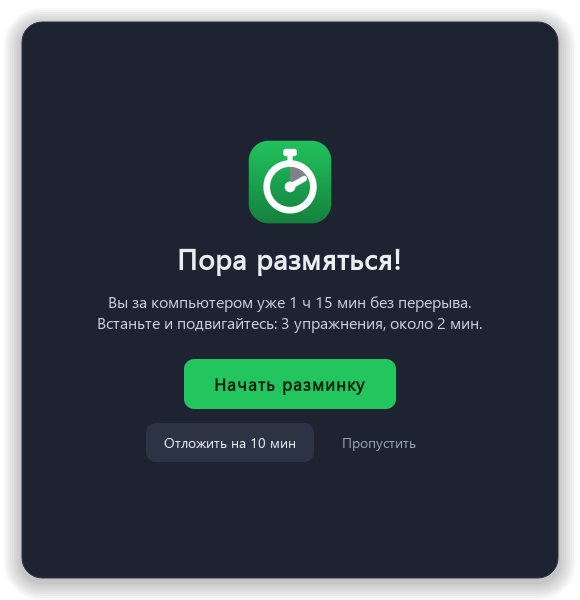
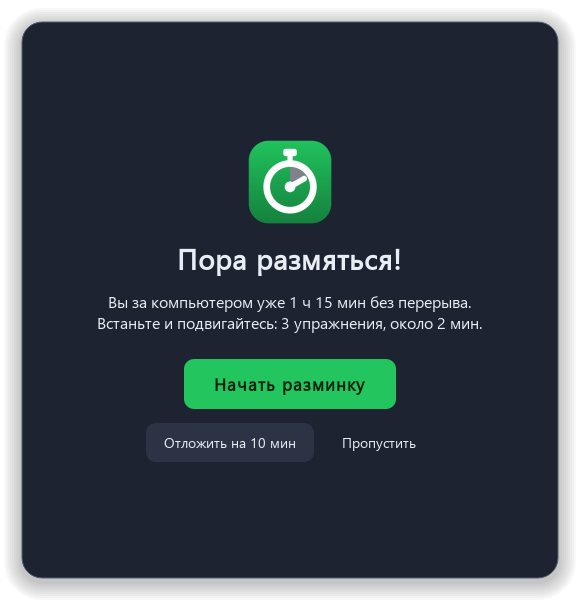
Website for Razminka 1.2.9

Changed region(s): [[0.5897, 0.72, 0.7138, 0.75]]

diff --git a/docs/index.html b/docs/index.html
@@ -1,10 +1,10 @@
-<!doctype html>
+<!doctype html>
 <html lang="ru">
 <head>
 <meta charset="utf-8"><meta name="viewport" content="width=device-width,initial-scale=1">
 <meta name="description" content="Разминка напоминает отойти от компьютера. Выбирайте упражнения, создавайте свои тренировки и смотрите результаты. Бесплатно для Windows.">
-<meta name="theme-color" content="#eef4f2"><title>Разминка — сделайте небольшой перерыв</title>
-<link rel="icon" href="assets/icon.png"><link rel="stylesheet" href="style.css"><script src="app.js" defer></script>
+<meta name="theme-color" content="#171d27"><title>Разминка — сделайте небольшой перерыв</title>
+<link rel="icon" href="assets/icon.png"><link rel="stylesheet" href="style.css?v=1.2.9"><script src="app.js" defer></script>
 </head>
 <body>
 <a class="skip" href="#main">Перейти к содержимому</a>
@@ -14,11 +14,11 @@
 <div class="intro"><p class="availability">Для тех, кто работает за компьютером</p><h1>Работа подождёт<br>пару минут.</h1><p class="lead">Иногда увлечёшься — и полдня пролетело сидя. Разминка напомнит встать из-за стола и поможет сделать несколько упражнений.</p><a class="button primary" href="#download">Скачать для Windows</a><p class="quiet">Бесплатно, без регистрации. Есть версия без установки.</p></div>
 <figure class="hero-shot"><img src="assets/reminder.png" width="580" height="600" alt="Окно Разминки предлагает начать упражнения, отложить напоминание или пропустить его"><figcaption>Не время? Отложите напоминание и закончите свои дела.</figcaption></figure>
 </section>
-<section class="routine wrap"><h2>Небольшой перерыв<br>в обычном рабочем дне.</h2><div class="routine-copy"><p>Программа живёт в трее, рядом с часами. Задайте, как часто напоминать о разминке и в какие часы вас можно беспокоить.</p><p>Если вы уже отошли от компьютера, отсчёт начнётся заново. Напоминания можно поставить на паузу, а тренировку — запустить в любой момент.</p></div></section>
+<section class="routine wrap"><h2>Небольшой перерыв<br>в обычном рабочем дне.</h2><div class="routine-copy"><p>Программа живёт в трее, рядом с часами. Задайте, как часто напоминать о разминке и в какие часы вас можно беспокоить.</p><p>Если вы уже отошли от компьютера, отсчёт начнётся заново. В меню «Пауза» можно приостановить напоминания на 15 или 30 минут, на 1, 2 или 4 часа. Возобновить их и запустить тренировку можно в любой момент.</p></div></section>
 <section id="workouts" class="workouts"><div class="wrap split"><div class="section-copy"><h2>Ваши упражнения.<br>Ваш темп.</h2><p>Выберите короткую разминку или отжимания с приседаниями: по 10 раз, затем по 15. Программа запомнит выбранную тренировку.</p><p>Упражнения на время идут по таймеру. В подходах на повторения вы сами нажимаете «Готово». Сделали меньше или больше — поправьте количество перед завершением.</p><div class="sequence" aria-label="Порядок упражнений"><span>10 отжиманий</span><span>10 приседаний</span><span>15 отжиманий</span><span>15 приседаний</span></div></div><figure><button class="screenshot" aria-label="Увеличить экран упражнения на повторения"><img src="assets/repetitions.png" width="580" height="600" loading="lazy" alt="Отжимания: план 10 повторений, поле выполненного количества и кнопка Готово"></button><figcaption>Можно сделать паузу или пропустить упражнение.</figcaption></figure></div></section>
-<section class="editor wrap"><div class="section-heading"><h2>Соберите свою тренировку.</h2><p>Откройте настройки и нажмите «Новая тренировка». Добавьте упражнения, укажите время или повторения, расставьте их в удобном порядке. Подсказки и отдых между упражнениями тоже настраиваются.</p></div><figure class="wide-shot"><button class="screenshot" aria-label="Увеличить редактор тренировок"><img src="assets/editor.png" width="820" height="500" loading="lazy" alt="Редактор: названия упражнений, подсказки, выбор времени или повторений, кнопки добавления и перестановки"></button><figcaption>Всё редактируется в приложении. Разбираться в файлах не нужно.</figcaption></figure></section>
+<section class="editor wrap"><div class="section-heading"><h2>Соберите свою тренировку.</h2><p>Откройте настройки и нажмите «Новая тренировка». Добавьте упражнения, укажите время или повторения, расставьте их в удобном порядке. Название тренировки, подсказки и отдых между упражнениями тоже можно изменить.</p></div><figure class="wide-shot"><button class="screenshot" aria-label="Увеличить редактор тренировок"><img src="assets/editor.png" width="820" height="500" loading="lazy" alt="Редактор: названия упражнений, подсказки, выбор времени или повторений, кнопки добавления и перестановки"></button><figcaption>Всё редактируется в приложении. Разбираться в файлах не нужно.</figcaption></figure></section>
 <section id="history" class="history"><div class="wrap"><div class="section-heading"><h2>Посмотрите,<br>что получилось.</h2><p>В истории остаются тренировки и упражнения: что выполнили, что пропустили, сколько повторений подтвердили и сколько времени занимались. Подготовка и паузы учитываются отдельно.</p></div><figure class="wide-shot"><button class="screenshot" aria-label="Увеличить историю тренировок"><img src="assets/history.png" width="1000" height="650" loading="lazy" alt="История с датами тренировок и подробностями каждого упражнения"></button><figcaption>Пример истории. Ваши записи хранятся только на вашем компьютере.</figcaption></figure><p class="history-note">История собирается с версии 1.2.8. Программа не измеряет движения: количество повторений вы подтверждаете сами.</p></div></section>
-<section class="settings wrap"><figure><button class="screenshot" aria-label="Увеличить настройки"><img src="assets/settings.png" width="600" height="650" loading="lazy" alt="Настройки: выбор и редактор тренировок, история, расписание и обновления"></button></figure><div class="section-copy"><h2>Настройте один раз.</h2><ul class="plain-list"><li><strong>Удобное расписание.</strong> Выберите интервал и часы напоминаний.</li><li><strong>Без лишнего звука.</strong> Отключите сигналы, если они мешают.</li><li><strong>Автозапуск по желанию.</strong> Разминка может запускаться вместе с Windows.</li><li><strong>Обновления внутри приложения.</strong> Новая версия загрузится автоматически, а установить её можно в удобный момент.</li></ul></div></section>
+<section class="settings wrap"><figure><button class="screenshot" aria-label="Увеличить настройки"><img src="assets/settings.png" width="600" height="650" loading="lazy" alt="Настройки: выбор и редактор тренировок, история, расписание и обновления"></button></figure><div class="section-copy"><h2>Настройте один раз.</h2><ul class="plain-list"><li><strong>Светлая или тёмная тема.</strong> Выберите оформление по вкусу или оставьте «Как в Windows». На скриншотах — тёмная тема приложения.</li><li><strong>Удобное расписание.</strong> Выберите интервал и часы напоминаний.</li><li><strong>Без лишнего звука.</strong> Отключите сигналы, если они мешают.</li><li><strong>Автозапуск по желанию.</strong> Разминка может запускаться вместе с Windows.</li><li><strong>Обновления внутри приложения.</strong> Новая версия загрузится автоматически, а установить её можно в удобный момент.</li></ul></div></section>
 <section id="download" class="download"><div class="wrap"><h2>Попробуйте в следующий<br>рабочий день.</h2><p>Windows 10 или 11, 64 бита. Дополнительно устанавливать библиотеки не нужно.</p><div class="downloads"><article><h3>Обычная установка</h3><p>Запустите установщик. Разминка появится в меню «Пуск». Права администратора не нужны.</p><a id="setup-link" class="button primary" href="https://github.com/neonvalve/razminka/releases/latest">Скачать установщик</a></article><article><h3>Без установки</h3><p>Распакуйте всю папку из архива и откройте Razminka.exe. Настройки и история останутся рядом с программой.</p><a id="portable-link" class="button" href="https://github.com/neonvalve/razminka/releases/latest">Скачать ZIP</a></article></div><p class="release-info"><span id="version">Последняя версия доступна на GitHub.</span> <a href="https://github.com/neonvalve/razminka/releases">Что изменилось в выпусках</a></p></div></section>
 <section class="faq wrap"><h2>Если остались вопросы</h2><details><summary>Где искать программу после запуска?</summary><p>Рядом с часами Windows. Если значка не видно, откройте скрытые значки стрелкой. Нажмите на значок Разминки — появится меню с запуском тренировки, настройками и историей.</p></details><details><summary>Как выбрать тренировку для всех следующих напоминаний?</summary><p>В меню трея откройте «Тренировка» и выберите нужную — изменение применяется сразу. Или выберите её в настройках и нажмите «Сохранить». Уже начатая тренировка останется прежней.</p></details><details><summary>Что будет с моими тренировками после обновления?</summary><p>Обновление сохраняет ваши упражнения, настройки и историю. Новая версия устанавливается после подтверждения и перезапускает приложение. Проверить обновления вручную можно в трее или в окне «О программе».</p></details><details><summary>Нужен ли интернет?</summary><p>Для тренировок и просмотра истории — нет. Интернет нужен для проверки и загрузки обновлений. Данные тренировок никуда не отправляются.</p></details><details><summary>Можно пользоваться бесплатно?</summary><p>Да, все функции доступны бесплатно. Подписки и регистрации нет. Поддержать автора можно по желанию.</p></details></section>
 <section class="coffee wrap"><div><h2>Разминка пригодилась?</h2><p>Меня зовут Антон Тепляков. Если хотите сказать спасибо и поддержать дальнейшую разработку — можно угостить меня кофе.</p><a href="https://t.me/ElementJS">Написать автору в Telegram</a></div><a class="button" href="https://pay.cloudtips.ru/p/019480d0" target="_blank" rel="noopener noreferrer">Угостить кофе</a></section>

diff --git a/docs/style.css b/docs/style.css
@@ -1,5 +1,5 @@
-:root{--ink:#203c38;--muted:#536e68;--green:#216954;--paper:#fff;--wash:#eef4f2;--line:#cbdad5;font:17px/1.65 "Segoe UI",Arial,sans-serif;color:var(--ink);background:var(--paper)}
-*{box-sizing:border-box}body{margin:0}html{scroll-behavior:smooth;scroll-padding-top:32px}a{color:var(--green);text-underline-offset:4px}button{font:inherit}a:focus-visible,button:focus-visible,summary:focus-visible{outline:3px solid #a95826;outline-offset:5px}.wrap{width:min(1140px,calc(100% - 64px));margin:auto}header{display:flex;align-items:center;justify-content:space-between;gap:24px;padding:26px 0}.brand{display:inline-flex;align-items:center;gap:12px;color:var(--ink);font-weight:700;font-size:24px;text-decoration:none}nav{display:flex;gap:30px}nav a{font-size:15px;text-decoration:none}h1,h2,h3,p,figure{margin:0}h1,h2{font-family:"Trebuchet MS","Segoe UI",sans-serif;letter-spacing:-.045em;line-height:1.1;font-weight:700}h1{font-size:clamp(44px,5.5vw,74px)}h2{font-size:clamp(32px,3.7vw,49px)}h3{font-size:24px;line-height:1.3}p{max-width:62ch}.hero{display:grid;grid-template-columns:1.12fr 1fr;align-items:center;gap:36px;padding:40px 0 75px}.availability{color:var(--muted);margin-bottom:22px;font-size:15px}.lead{font-size:21px;line-height:1.65;margin:26px 0 30px}.quiet{font-size:14px;color:var(--muted);margin-top:15px}.button{display:inline-flex;align-items:center;justify-content:center;border:1px solid var(--green);border-radius:8px;padding:14px 22px;font-size:16px;font-weight:650;text-align:center;text-decoration:none;min-height:50px}.button:hover{background:#e0ece6}.primary{background:var(--green);color:white}.primary:hover{background:#174d3d}.hero-shot{background:var(--wash);border-radius:130px 130px 24px 24px;padding:12px 8px 20px}.hero-shot img{width:100%;height:auto;display:block}figcaption{font-size:14px;color:var(--muted);text-align:center;padding:12px 18px 0}.routine{display:grid;grid-template-columns:1fr 1fr;gap:80px;padding:66px 0 90px;border-top:1px solid var(--line)}.routine-copy p+p,.section-copy p+p{margin-top:18px}.section-copy h2{margin-bottom:26px}.split{display:grid;grid-template-columns:1fr .9fr;gap:80px;align-items:center}.workouts{background:var(--wash);padding:65px 0}.screenshot{padding:0;border:0;background:transparent;display:block;width:100%;cursor:zoom-in}.screenshot img{display:block;width:100%;height:auto;max-width:100%;object-fit:contain}.sequence{display:grid;grid-template-columns:1fr 1fr;gap:0 20px;margin-top:30px;font-weight:600}.sequence span{padding:12px 0;border-top:1px solid #bdcec7}.editor{padding:100px 0}.section-heading{display:grid;grid-template-columns:1fr 1fr;gap:60px;align-items:start;margin-bottom:40px}.wide-shot{max-width:1000px;margin:auto}.wide-shot .screenshot{background:white;border-radius:10px;overflow:hidden;border:1px solid var(--line);box-shadow:0 16px 40px #203c3812}.history{padding:85px 0;background:#edf2f8}.history-note{font-size:14px;color:var(--muted);margin:24px auto 0;text-align:center}.settings{display:grid;grid-template-columns:1fr 1fr;gap:90px;align-items:center;padding:100px 0}.settings figure{max-width:540px}.settings img{border:1px solid var(--line);border-radius:8px}.plain-list{list-style:none;margin:0;padding:0}.plain-list li{padding:18px 0;border-bottom:1px solid var(--line)}.plain-list strong{display:block}.download{background:var(--wash);padding:80px 0}.download h2{margin-bottom:22px}.downloads{display:grid;grid-template-columns:1fr 1fr;gap:75px;margin:40px 0 32px}.downloads article{padding-top:25px;border-top:1px solid #b9cdc3}.downloads p{margin:14px 0 24px;max-width:46ch}.release-info{font-size:14px;color:var(--muted)}.release-info a{margin-left:10px}.faq{padding:90px 0}.faq h2{margin-bottom:30px}.faq details{border-bottom:1px solid var(--line);padding:20px 0}.faq summary{font-size:20px;cursor:pointer;font-weight:600}.faq details p{margin-top:16px;max-width:80ch}.coffee{display:grid;grid-template-columns:1fr auto;gap:55px;align-items:center;border-top:1px solid var(--line);padding:55px 0 70px}.coffee h2{font-size:36px;margin-bottom:20px}.coffee p{margin-bottom:16px;max-width:57ch}footer{display:flex;align-items:center;flex-wrap:wrap;gap:30px;padding:25px 0 40px!important;border-top:1px solid var(--line);font-size:14px}footer .brand{margin-right:auto}.skip{position:absolute;top:-100px;left:10px;background:white;padding:12px;z-index:10}.skip:focus{top:10px}dialog{border:0;border-radius:12px;padding:16px;max-width:95vw;max-height:95vh;background:#f4f7f6}dialog::backdrop{background:#102923db}dialog img{display:block;max-width:88vw;max-height:80vh;object-fit:contain;margin:auto}dialog button{display:block;margin:0 0 12px auto;padding:8px 18px;background:white;border:1px solid var(--green);border-radius:5px;cursor:pointer;color:var(--ink)}
+:root{--ink:#e9edf4;--muted:#b4bfd0;--green:#70dda0;--paper:#171d27;--wash:#202937;--line:#3a485e;font:17px/1.65 "Segoe UI",Arial,sans-serif;color:var(--ink);background:var(--paper)}
+*{box-sizing:border-box}body{margin:0}html{scroll-behavior:smooth;scroll-padding-top:32px}a{color:var(--green);text-underline-offset:4px}button{font:inherit}a:focus-visible,button:focus-visible,summary:focus-visible{outline:3px solid #a95826;outline-offset:5px}.wrap{width:min(1140px,calc(100% - 64px));margin:auto}header{display:flex;align-items:center;justify-content:space-between;gap:24px;padding:26px 0}.brand{display:inline-flex;align-items:center;gap:12px;color:var(--ink);font-weight:700;font-size:24px;text-decoration:none}nav{display:flex;gap:30px}nav a{font-size:15px;text-decoration:none}h1,h2,h3,p,figure{margin:0}h1,h2{font-family:"Trebuchet MS","Segoe UI",sans-serif;letter-spacing:-.045em;line-height:1.1;font-weight:700}h1{font-size:clamp(44px,5.5vw,74px)}h2{font-size:clamp(32px,3.7vw,49px)}h3{font-size:24px;line-height:1.3}p{max-width:62ch}.hero{display:grid;grid-template-columns:1.12fr 1fr;align-items:center;gap:36px;padding:40px 0 75px}.availability{color:var(--muted);margin-bottom:22px;font-size:15px}.lead{font-size:21px;line-height:1.65;margin:26px 0 30px}.quiet{font-size:14px;color:var(--muted);margin-top:15px}.button{display:inline-flex;align-items:center;justify-content:center;border:1px solid var(--green);border-radius:8px;padding:14px 22px;font-size:16px;font-weight:650;text-align:center;text-decoration:none;min-height:50px}.button:hover{background:#2b394a}.primary{background:#22c55e;color:#06220f}.primary:hover{background:#37d67a}.hero-shot{background:var(--wash);border-radius:130px 130px 24px 24px;padding:12px 8px 20px}.hero-shot img{width:100%;height:auto;display:block}figcaption{font-size:14px;color:var(--muted);text-align:center;padding:12px 18px 0}.routine{display:grid;grid-template-columns:1fr 1fr;gap:80px;padding:66px 0 90px;border-top:1px solid var(--line)}.routine-copy p+p,.section-copy p+p{margin-top:18px}.section-copy h2{margin-bottom:26px}.split{display:grid;grid-template-columns:1fr .9fr;gap:80px;align-items:center}.workouts{background:var(--wash);padding:65px 0}.screenshot{padding:0;border:0;background:transparent;display:block;width:100%;cursor:zoom-in}.screenshot img{display:block;width:100%;height:auto;max-width:100%;object-fit:contain}.sequence{display:grid;grid-template-columns:1fr 1fr;gap:0 20px;margin-top:30px;font-weight:600}.sequence span{padding:12px 0;border-top:1px solid #3a485e}.editor{padding:100px 0}.section-heading{display:grid;grid-template-columns:1fr 1fr;gap:60px;align-items:start;margin-bottom:40px}.wide-shot{max-width:1000px;margin:auto}.wide-shot .screenshot{background:#1d2330;border-radius:10px;overflow:hidden;border:1px solid var(--line);box-shadow:0 16px 40px #203c3812}.history{padding:85px 0;background:#202937}.history-note{font-size:14px;color:var(--muted);margin:24px auto 0;text-align:center}.settings{display:grid;grid-template-columns:1fr 1fr;gap:90px;align-items:center;padding:100px 0}.settings figure{max-width:540px}.settings img{border:1px solid var(--line);border-radius:8px}.plain-list{list-style:none;margin:0;padding:0}.plain-list li{padding:18px 0;border-bottom:1px solid var(--line)}.plain-list strong{display:block}.download{background:var(--wash);padding:80px 0}.download h2{margin-bottom:22px}.downloads{display:grid;grid-template-columns:1fr 1fr;gap:75px;margin:40px 0 32px}.downloads article{padding-top:25px;border-top:1px solid #3a485e}.downloads p{margin:14px 0 24px;max-width:46ch}.release-info{font-size:14px;color:var(--muted)}.release-info a{margin-left:10px}.faq{padding:90px 0}.faq h2{margin-bottom:30px}.faq details{border-bottom:1px solid var(--line);padding:20px 0}.faq summary{font-size:20px;cursor:pointer;font-weight:600}.faq details p{margin-top:16px;max-width:80ch}.coffee{display:grid;grid-template-columns:1fr auto;gap:55px;align-items:center;border-top:1px solid var(--line);padding:55px 0 70px}.coffee h2{font-size:36px;margin-bottom:20px}.coffee p{margin-bottom:16px;max-width:57ch}footer{display:flex;align-items:center;flex-wrap:wrap;gap:30px;padding:25px 0 40px!important;border-top:1px solid var(--line);font-size:14px}footer .brand{margin-right:auto}.skip{position:absolute;top:-100px;left:10px;background:#1d2330;padding:12px;z-index:10}.skip:focus{top:10px}dialog{border:0;border-radius:12px;padding:16px;max-width:95vw;max-height:95vh;background:#1d2330}dialog::backdrop{background:#080d14ed}dialog img{display:block;max-width:88vw;max-height:80vh;object-fit:contain;margin:auto}dialog button{display:block;margin:0 0 12px auto;padding:8px 18px;background:#1d2330;border:1px solid var(--green);border-radius:5px;cursor:pointer;color:var(--ink)}
 @media(max-width:850px){.wrap{width:calc(100% - 40px)}.hero{gap:12px}.lead{font-size:18px}.split,.settings{gap:35px}.routine,.section-heading{gap:30px}.downloads{gap:35px}.coffee{gap:30px}nav{gap:18px}.settings{padding:70px 0}}
 @media(max-width:600px){header{flex-wrap:wrap;gap:20px}nav{width:100%;justify-content:space-between}.hero{grid-template-columns:1fr;padding:25px 0 45px;gap:30px}.hero-shot{max-width:430px;margin:auto}.routine,.split,.section-heading,.settings,.downloads,.coffee{grid-template-columns:1fr}.routine{padding:45px 0}.workouts{padding:45px 0}.split{gap:25px}.editor,.faq{padding:60px 0}.history,.download{padding:55px 0}.section-heading{gap:22px;margin-bottom:30px}.settings{gap:35px}.settings figure{order:2}.downloads{gap:25px}.coffee{padding:40px 0}.coffee .button{justify-self:start}.release-info a{display:block;margin:10px 0 0}footer .brand{width:100%}.wide-shot figcaption{padding-inline:0}h1{font-size:46px}}
 @media(prefers-reduced-motion:reduce){html{scroll-behavior:auto}}

diff --git a/README.md b/README.md
@@ -4,7 +4,7 @@
 
 Вы задаёте интервал, часы напоминаний и выбираете тренировку. Когда приходит время, программа предлагает встать из-за стола. Напоминание можно отложить или пропустить. Если вы надолго отошли, заблокировали экран или отправили компьютер в сон, отсчёт начинается заново.
 
-Упражнения бывают по таймеру и на количество повторений. В комплекте есть короткая разминка и чередование отжиманий с приседаниями: сначала по 10 раз, затем по 15. Свои тренировки можно собрать прямо в настройках: добавить упражнения, выбрать время или повторения, изменить порядок и отдых. Формат файлов знать не нужно.
+Упражнения бывают по таймеру и на количество повторений. В комплекте есть короткая разминка и чередование отжиманий с приседаниями: сначала по 10 раз, затем по 15. Свои тренировки можно собрать прямо в настройках: добавить упражнения, выбрать время или повторения, изменить порядок и отдых. Формат файлов знать не нужно. Название тренировки тоже можно изменить. В настройках есть светлая, тёмная и системная темы; выбранное оформление применяется ко всем окнам без перезапуска.
 
 - [Скачать последнюю версию](https://github.com/neonvalve/razminka/releases/latest)
 - [Сайт и скриншоты](https://neonvalve.github.io/razminka/)
